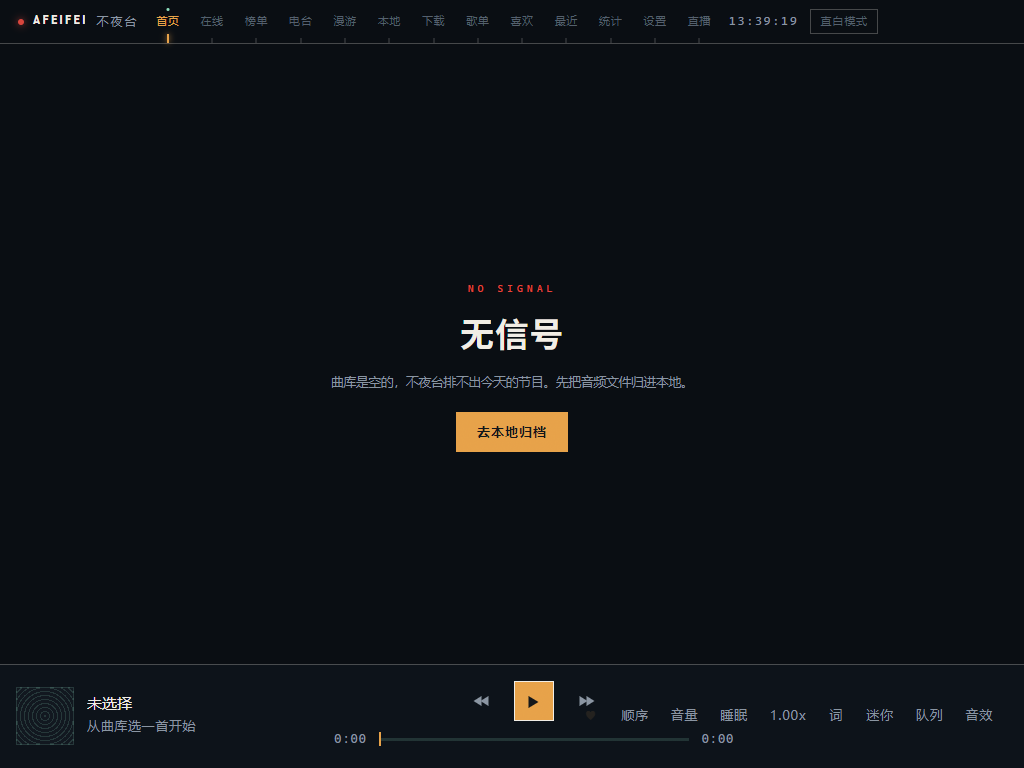
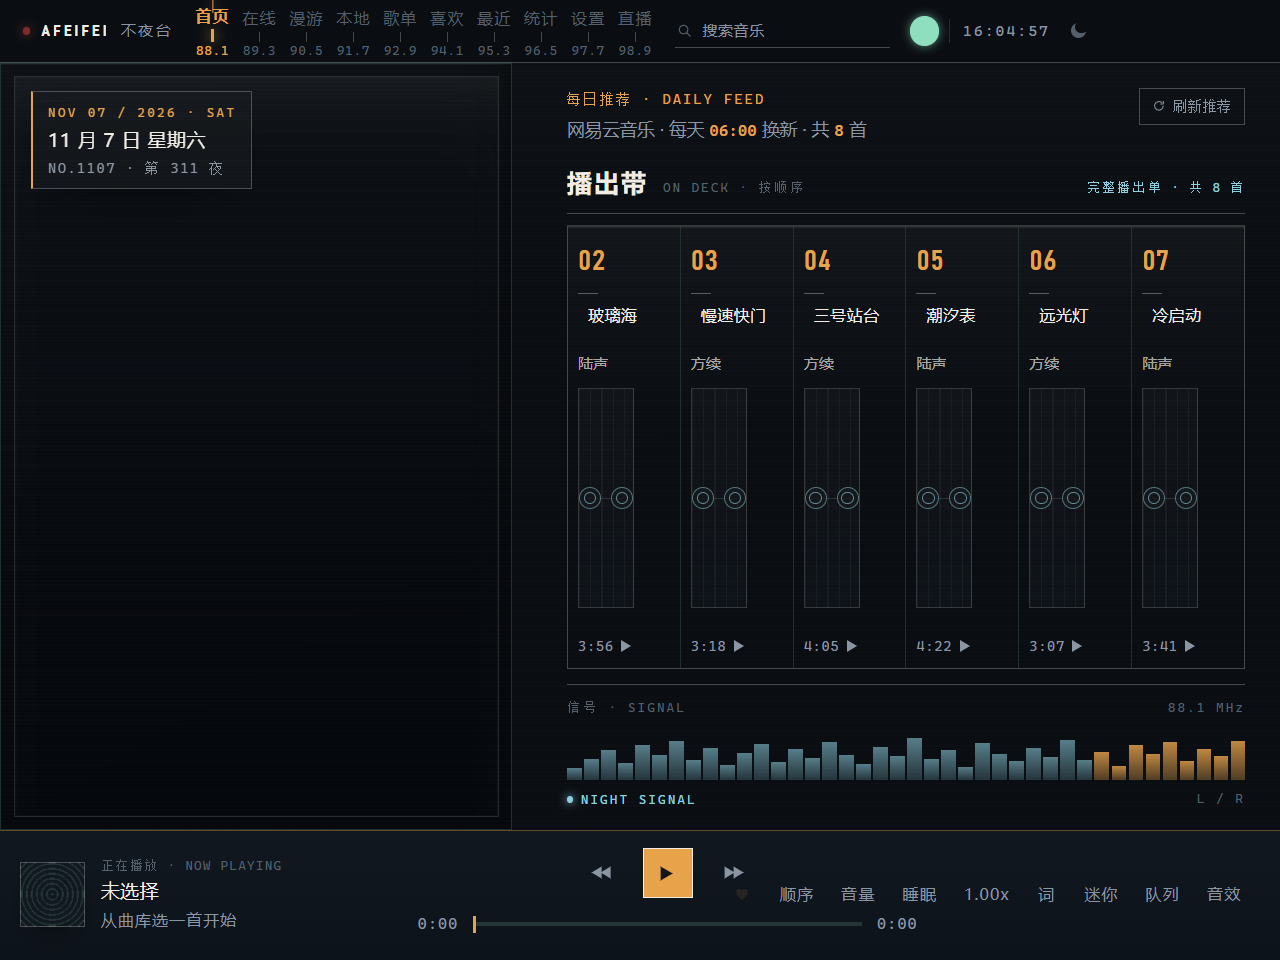
ui: 首页 hero 跟随全局播放，新增 ON AIR 模式（节目单=当前队列）

diff --git a/src/renderer/ui/live/LiveHome.tsx b/src/renderer/ui/live/LiveHome.tsx
@@ -6,10 +6,16 @@ import { RefreshButton } from "../RefreshButton.js";
 import { NightCoverArt } from "./NightCoverArt.js";
 import { issueOf, nightOfYear } from "./night.js";
 import { splitLatinRuns } from "./typography.js";
+import { onAirProgram, type OnAirProgram } from "./on-air.js";
+
+export { onAirProgram };
+export type { OnAirProgram };
 
 /**
- * 首页 = 当前账号的每日推荐，按「深夜广播 · 唱片舞台」组织：
- * 左侧是整高封套 + 压在封套上的主打信息，右侧是每日推荐与横向播出带。
+ * 首页 = 「电台总控台」，按「深夜广播 · 唱片舞台」组织：
+ * 左侧是整高封套 + 压在封套上的主打信息，右侧是本期节目单与横向播出带。
+ * hero 跟随全局播放（onAirProgram 投影）：在播的歌来自每日推荐就按每日推荐展示，
+ * 来自榜单/歌单/搜索/FM 就整页切 ON AIR、节目单 = 当前队列；空闲回落今日第 1 档。
  * 所有叙事字段来自真实数据或日期派生；不编造播出时间。
  */
 
@@ -46,6 +52,7 @@ export function LiveHome({
   nowPlaying,
   playing,
   onToggle,
+  onAir,
 }: {
   account(): Promise<AccountBundle>;
   accountName: string;
@@ -57,6 +64,8 @@ export function LiveHome({
   playing: boolean;
   /** 左栏正在播的那一档：播放 / 暂停切换 */
   onToggle(): void;
+  /** 全局正在播的远程节目（onAirProgram 投影）。null = 没在播远程歌 */
+  onAir: OnAirProgram | null;
 }) {
   const state = useAccountBundle(account, "daily");
   const [showAll, setShowAll] = useState(false);
@@ -65,22 +74,34 @@ export function LiveHome({
   const day = today.getDate();
   const night = nightOfYear(today);
   const issue = issueOf(today);
-  const total = state.songs.length;
   /*
-   * 左栏显示哪一档：**正在播放的那首**优先（且必须属于本期播出单），否则回落到第 1 档。
-   * 单一事实源——播放器状态是唯一的「当前」，这里不另存一份 selected，
-   * 免得底栏切歌、上一首/下一首之后左栏和底栏各说各话。
+   * hero 显示哪一档——两个模式，同一投影：
+   *  - 每日推荐（默认）：正在播的歌属于今日推荐，或没在播（回落第 1 档）；
+   *  - ON AIR：正在播的远程歌来自别处（榜单/歌单/搜索/FM），整页切过去，
+   *    节目单 = 当前队列——在任何页选的歌，回首页都能看到它上台和整份节目单。
+   * 单一事实源不变：播放状态由 store 唯一持有，这里只做投影，不另存 selected。
    */
   const liveIndex =
     nowPlaying && nowPlaying.sourceId === state.sourceId
       ? state.songs.findIndex((t) => t.sourceId === nowPlaying.songId)
       : -1;
-  const live = liveIndex >= 0;
-  const leadIndex = live ? liveIndex : 0;
-  const lead = state.songs[leadIndex];
-  const tapes = state.songs.slice(1, 7);
-  // 点播出带里的任意一档：队列 = 整份今日推荐，从这一首开始（连播靠它）
-  const play = (track: RemoteTrack): void => onPlayRemote(state.sourceId, track, state.songs);
+  const onAirIdx = onAir ? onAir.list.findIndex((t) => t.sourceId === onAir.meta.songId) : -1;
+  const onAirMode = onAir != null && liveIndex < 0 && onAirIdx >= 0;
+
+  const live = onAirMode || liveIndex >= 0;
+  const leadIndex = onAirMode ? onAirIdx : liveIndex >= 0 ? liveIndex : 0;
+  const lead: RemoteTrack | undefined = onAirMode ? onAir.list[onAirIdx] : state.songs[leadIndex];
+  // 本期节目单：ON AIR = 当前队列，每日推荐 = 账号推荐列表
+  const program: RemoteTrack[] = onAirMode ? onAir.list : state.songs;
+  const total = program.length;
+  // 每日推荐的 01 号位就是 hero，播出带从 02 起；ON AIR 节目单从 01 排，hero 与行是同一份列表
+  const tapeStart = onAirMode ? 0 : 1;
+  const tapes = program.slice(tapeStart, tapeStart + 6);
+  // 点播出带里的任意一档：队列 = 整份节目单，从这一首开始（连播靠它）
+  const play = (track: RemoteTrack): void => {
+    if (onAirMode) onPlayRemote(onAir.meta.sourceId, track, onAir.list);
+    else onPlayRemote(state.sourceId, track, state.songs);
+  };
 
   const firstVisit = !homeVisited;
   homeVisited = true;
@@ -158,11 +179,13 @@ export function LiveHome({
                 </span>
               </p>
               <p className="cs-note">
-                {live
-                  ? lead.album
-                    ? `收录于《${lead.album}》。`
-                    : `今晚第 ${leadIndex + 1} 档正在播出。`
-                  : "今晚从这一首开始。先把它放完，再决定往哪儿走。"}
+                {onAirMode
+                  ? `来自 ${onAir.sourceName} 的节目单正在播出。今晚去哪儿走，由它决定。`
+                  : live
+                    ? lead.album
+                      ? `收录于《${lead.album}》。`
+                      : `今晚第 ${leadIndex + 1} 档正在播出。`
+                    : "今晚从这一首开始。先把它放完，再决定往哪儿走。"}
               </p>
               <div className="cs-actions">
                 <button
@@ -181,12 +204,20 @@ export function LiveHome({
           <section className="cs-feed" aria-label="今日推荐">
             <header className="cs-feed-head">
               <div>
-                <p className="cs-feed-kicker">每日推荐 · DAILY FEED</p>
+                <p className="cs-feed-kicker">{onAirMode ? "正在播出 · ON AIR" : "每日推荐 · DAILY FEED"}</p>
                 <p className="cs-feed-meta">
-                  {accountName || "当前音源"} · 每天 <b>06:00</b> 换新 · 共 <b>{total}</b> 首
+                  {onAirMode ? (
+                    <>
+                      {onAir.sourceName} · 来自当前队列 · 共 <b>{total}</b> 首
+                    </>
+                  ) : (
+                    <>
+                      {accountName || "当前音源"} · 每天 <b>06:00</b> 换新 · 共 <b>{total}</b> 首
+                    </>
+                  )}
                 </p>
               </div>
-              <RefreshButton onClick={state.reload} busy={state.loading} title="刷新推荐" />
+              {onAirMode ? null : <RefreshButton onClick={state.reload} busy={state.loading} title="刷新推荐" />}
             </header>
 
             <div className="cs-strip-head">
@@ -204,15 +235,15 @@ export function LiveHome({
 
             {showAll ? (
               <ol className="cs-all" aria-label="完整播出单，按播出顺序">
-                {state.songs.slice(1).map((track, i) => (
+                {program.slice(tapeStart).map((track, i) => (
                   <li key={track.sourceId}>
                     <button
                       type="button"
-                      className={`cs-all-row${live && leadIndex === i + 1 ? " is-live" : ""}`}
-                      aria-current={live && leadIndex === i + 1 ? "true" : undefined}
+                      className={`cs-all-row${live && leadIndex === i + tapeStart ? " is-live" : ""}`}
+                      aria-current={live && leadIndex === i + tapeStart ? "true" : undefined}
                       onClick={() => play(track)}
                     >
-                      <span className="cs-all-no">{pad2(i + 2)}</span>
+                      <span className="cs-all-no">{pad2(i + tapeStart + 1)}</span>
                       <span className="cs-all-title daily-title">{track.title}</span>
                       <span className="cs-all-artist">{track.artist}</span>
                       <span className="cs-all-dur">{fmtDuration(track.durationMs)}</span>
@@ -226,12 +257,12 @@ export function LiveHome({
                 <li key={track.sourceId}>
                   <button
                     type="button"
-                    className={`cs-tape${live && leadIndex === i + 1 ? " is-live" : ""}`}
-                    aria-current={live && leadIndex === i + 1 ? "true" : undefined}
+                    className={`cs-tape${live && leadIndex === i + tapeStart ? " is-live" : ""}`}
+                    aria-current={live && leadIndex === i + tapeStart ? "true" : undefined}
                     onClick={() => play(track)}
-                    aria-label={`播放 ${pad2(i + 2)} ${track.title}，${track.artist}，${fmtDuration(track.durationMs)}`}
+                    aria-label={`播放 ${pad2(i + tapeStart + 1)} ${track.title}，${track.artist}，${fmtDuration(track.durationMs)}`}
                   >
-                    <span className="cs-tape-no">{pad2(i + 2)}</span>
+                    <span className="cs-tape-no">{pad2(i + tapeStart + 1)}</span>
                     <span className="cs-tape-rule" aria-hidden="true" />
                     <span className="cs-tape-title daily-title">{track.title}</span>
                     <span className="cs-tape-artist">{track.artist}</span>

diff --git a/src/renderer/ui/live/on-air.ts b/src/renderer/ui/live/on-air.ts
@@ -1,0 +1,44 @@
+import type { RemoteTrack } from "../../../contracts/capability.js";
+import type { RemoteTrackMeta } from "../../../contracts/index.js";
+
+/**
+ * 全局正在播的远程节目：首页 hero 的事实源不是每日推荐，是播放器本身。
+ * 榜单/歌单/搜索/FM 点播的歌都算「正在播出」，首页跟着切。
+ */
+export interface OnAirProgram {
+  /** 当前曲的队列元数据（sourceId = 音源，songId = 歌 id） */
+  meta: RemoteTrackMeta;
+  /** 本期节目单 = 当前队列里的同音源曲目，按播出顺序 */
+  list: RemoteTrack[];
+  /** 音源显示名（「QQ音乐」），hero 文案标来源 */
+  sourceName: string;
+}
+
+/**
+ * host 每次渲染现算的投影，不存 state：队列表里查得到当前曲 = 在播远程曲目
+ * （本地歌查不到，返回 null，首页回落每日推荐）。
+ * 节目单只收同音源的条目：混源队列在播放链路里不存在，防一手 id 前缀错位。
+ */
+export function onAirProgram(
+  trackId: string | null,
+  queue: { items: readonly string[]; remote: Record<string, RemoteTrackMeta> },
+  sourceName: (sourceId: string) => string,
+): OnAirProgram | null {
+  const meta = trackId ? queue.remote[trackId] : undefined;
+  if (!meta) return null;
+  const list: RemoteTrack[] = [];
+  for (const id of queue.items) {
+    const m = queue.remote[id];
+    if (m && m.sourceId === meta.sourceId) {
+      list.push({
+        sourceId: m.songId,
+        title: m.title,
+        artist: m.artist,
+        album: "",
+        durationMs: m.durationMs ?? 0,
+        coverUrl: m.coverUrl,
+      });
+    }
+  }
+  return { meta, list, sourceName: sourceName(meta.sourceId) };
+}

diff --git a/src/renderer/ui/index.tsx b/src/renderer/ui/index.tsx
@@ -46,6 +46,7 @@ import { CommandPalette } from "./input/CommandPalette.js";
 import type { DailyBundle } from "./views/home/index.js";
 import { StationRuler } from "./live/StationRuler.js";
 import { LiveHome } from "./live/LiveHome.js";
+import { onAirProgram } from "./live/on-air.js";
 import { BootSplash } from "./BootSplash.js";
 import { invalidatePrefix, loadNet } from "../domain/net-cache/index.js";
 import { accountKey } from "./account-data.js";
@@ -1039,6 +1040,7 @@ function App() {
           nowPlaying={state.player.remote ?? null}
           playing={playing}
           onToggle={() => dispatch({ type: "player/toggle" })}
+          onAir={onAirProgram(state.player.trackId, state.queue, (id) => sources.find((s) => s.id === id)?.name ?? id)}
         />
       );
     }
